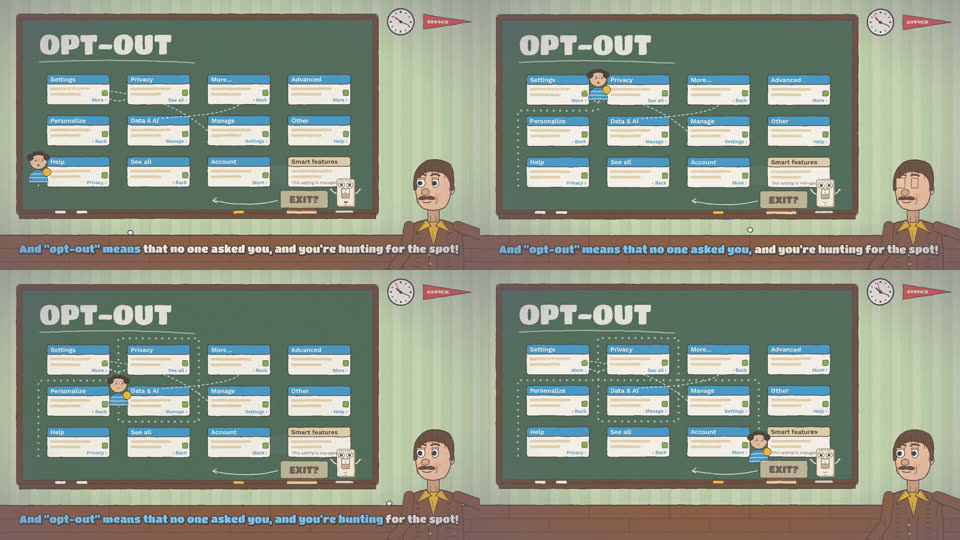
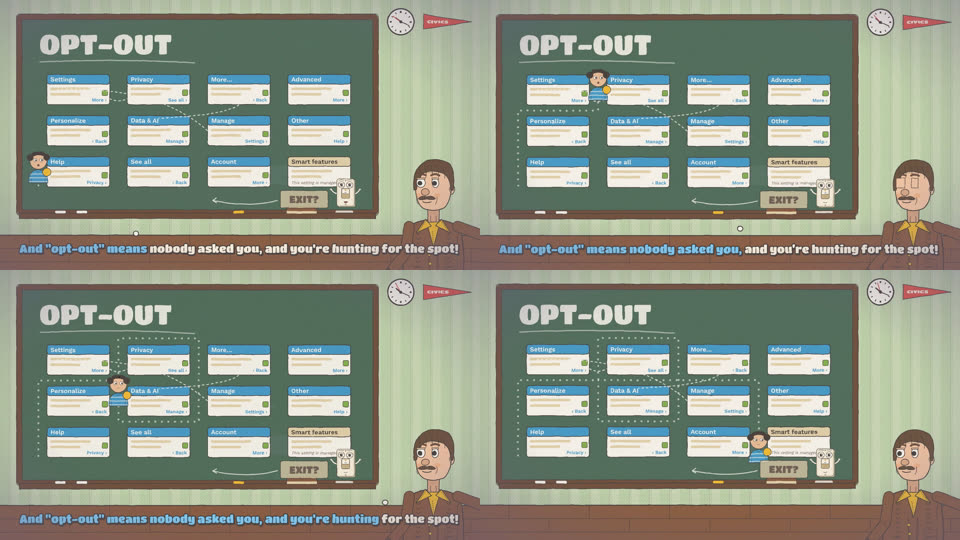
V05 as Switch sang it: re-aligned, lip sync, captions and S20 re-rendered
Claude-Session: https://claude.ai/code/session_01U1tVYjDQe516Mp7MHbmFPv

Changed region(s): [[0.5312, 0.4148, 0.9688, 0.4741], [0.0312, 0.9481, 0.4688, 0.9778], [0.0312, 0.4444, 0.4688, 0.4741]]

diff --git a/timing/map.md b/timing/map.md
@@ -28,7 +28,7 @@ Take = his comped line(s) in the master. Room = Narrator's word before → Narra
 | V02 | Yes, but can I please read the page myself? | 26.74–29.82 | 26.52–30.05 | 3.53 |
 | V03 | I've only got two sides, it isn't much to learn: / You push me down for off... ...so how'd I just return? | 34.16–37.25, 37.72–40.84 | 33.58–41.50 | 7.92 |
 | V04 | Default on, on, on, on, on, on, on... | 55.25–58.90 | 55.03–62.51 | 7.48 |
-| V05 | And "opt-out" means that no one asked you, and you're hunting for the spot! | 70.26–75.96 | 68.57–77.04 | 8.47 |
+| V05 | And "opt-out" means nobody asked you, and you're hunting for the spot! | 70.26–75.96 | 68.57–77.04 | 8.47 |
 | V06 | There's always a test. | 89.14–90.46 | 87.87–91.43 | 3.56 |
 | V07 | And what did the company say? | 99.02–100.42 | 98.46–100.71 | 2.25 |
 | V08 | Can I delete it? | 113.12–114.16 | 112.63–114.40 | 1.77 |
@@ -86,7 +86,7 @@ Take = his comped line(s) in the master. Room = Narrator's word before → Narra
 | S17 | Chorus 1 | "Default on!" / V04 "(On, on, on…)" | 55.25 | 1685 | L14a | cue words |
 | S18 | Chorus 1 | Flute and scat fill | 58.90 | 1794 | L14a | after Switch's V04 tag |
 | S19 | Lesson | "Now, 'opt-in' means somebody asks you…" | 62.51 | 1903 | L15 | cue words |
-| S20 | Lesson | V05 "And 'opt-out' means that no one asked you…" | 70.26 | 2135 | L16 | cue words |
+| S20 | Lesson | V05 "And 'opt-out' means nobody asked you…" | 70.26 | 2135 | L16 | cue words |
 | S21 | Lesson | "And 'default' is the setting that they picked…" | 77.04 | 2339 | L17 | cue words |
 | S22 | Lesson | "…they'll say you picked the same." | 82.56 | 2504 | L18 | cue words |
 | S23 | Lesson | "Got that? Opt-in, opt-out, default. There'll be a test." | 84.18 | 2553 | L19 | cue words |
@@ -158,7 +158,7 @@ Take = his comped line(s) in the master. Room = Narrator's word before → Narra
 | L14a | switch | Chorus 1 | 55.25 | 58.90 | Default on, on, on, on, on, on, on... |
 | L14 | narrator | Chorus 1 | 55.32 | 56.03 | Default on! |
 | L15 | narrator | Lesson | 62.51 | 68.57 | Now, "opt-in" means somebody asks you, and you say, "Well, sure, why not." |
-| L16 | switch | Lesson | 70.26 | 75.96 | And "opt-out" means that no one asked you, and you're hunting for the spot! |
+| L16 | switch | Lesson | 70.26 | 75.96 | And "opt-out" means nobody asked you, and you're hunting for the spot! |
 | L17 | narrator | Lesson | 77.04 | 80.45 | And "default" is the setting that they picked before you came, |
 | L18 | narrator | Lesson | 81.08 | 84.01 | And if you never touch it, friend, they'll say you picked the same. |
 | L19 | narrator | Lesson | 84.18 | 87.87 | Got that? Opt-in, opt-out, default. There'll be a test. |

diff --git a/docs/brief.md b/docs/brief.md
@@ -40,7 +40,7 @@
 | V02 | Verse 1 | "Yes, but can I please read the page myself?" | Sung or talk-sung, curious |
 | V03 | Pre-chorus 1 | "I've only got two sides, it isn't much to learn: / You push me down for off… …so how'd I just return?" | Slow and bluesy; leave the gap for the click |
 | V04 | Chorus 1 tag | "(On, on, on…)" | Sung, getting quieter |
-| V05 | Lesson | "And 'opt-out' means that no one asked you, and you're hunting for the spot!" | Sung, proud of knowing the answer |
+| V05 | Lesson | "And 'opt-out' means nobody asked you, and you're hunting for the spot!" (as he sang it; written "…means that no one asked you…") | Sung, proud of knowing the answer |
 | V06 | Lesson | "There's always a test." | Spoken, sighing |
 | V07 | Verse 2 | "And what did the company say?" (as he spoke it; written "And what's the company say?") | Spoken |
 | V08 | Verse 2 | "Can I delete it?" | Spoken, hopeful |
@@ -138,7 +138,7 @@
 | ID | Cue | Picture | Source |
 | --- | --- | --- | --- |
 | S19 | "Now, 'opt-in' means somebody asks you…" | Chalkboard: "OPT-IN." A cartoon kid is offered a cookie and nods | A |
-| S20 | V05 "And 'opt-out' means that no one asked you…" | "OPT-OUT." The kid already has a cookie stuck to his hand and wanders a maze of menus looking for the exit | A |
+| S20 | V05 "And 'opt-out' means nobody asked you…" | "OPT-OUT." The kid already has a cookie stuck to his hand and wanders a maze of menus looking for the exit | A |
 | S21 | "And 'default' is the setting that they picked…" | "DEFAULT." The kid sits down to a plate already piled with broccoli | A |
 | S22 | "…they'll say you picked the same." | A rubber stamp slams "YOU CHOSE THIS" onto the plate | A |
 | S23 | "Got that? Opt-in, opt-out, default. There'll be a test." | The Narrator taps the three words; a stack of test papers thuds onto the desk | A, E |

diff --git a/log/renders.md b/log/renders.md
@@ -144,3 +144,9 @@ Every render: timestamp, shot ID, composition, props, commit hash, output, conta
 - **Compositions:** `Sec02-Verse1`, `Sec03-Prechorus1`, `Sec04-Chorus1`, `Sec05-Lesson`, `Sec07-Prechorus2andChorus2`, `Sec11-Outroandreveal` from ce0a3dd (the citation on S05–S08; Switch's sung lines in bold karaoke); the other sections as before. `scripts/assemble.sh`; the sending copy at CRF 29; `Vertical` → `deliverables/vertical.mp4`.
 - **Checks:** 11,128 frames; sync −0.0001 s / 0.0000 s / 0.0000 s at 30 s, 150 s and 245 s. In the render: V02 above the citation in S07, the pre-chorus on the night set, both "on, on, on" tags on the wallpaper, V18 in S61; the first short carries the karaoke in its picture.
 - **Outputs:** the six sections, `renders/m4/m4_full.mp4`, `renders/m4/review/m4_full_review_720p.mp4` and `_send.mp4` (26.1 MB), `deliverables/vertical.mp4` (10.8 MB), contact sheets in `review/`. Superseded: `archive/renders/m5_s65_real_2026-11-10/` and `archive/renders/m5_karaoke_v1_partial_2026-11-10/`.
+
+## 2026-11-10T01:31 — Sec05 with V05 as sung; the full cut
+
+- **Compositions:** `Sec05-Lesson` from the working tree of this commit (L16's words, mouths and karaoke); `scripts/assemble.sh`; the sending copy at CRF 29.
+- **Checks:** 11,128 frames; sync −0.0001 s / 0.0000 s / 0.0000 s at 30 s, 150 s and 245 s; S20's karaoke reads "And "opt-out" means nobody asked you, and you're hunting for the spot!".
+- **Outputs:** `renders/m4/sec05_lesson.mp4`, `renders/m4/m4_full.mp4`, the review copies, contact sheets. Superseded: `archive/renders/m5_karaoke_2026-11-10/`.

diff --git a/log/production_log.md b/log/production_log.md
@@ -439,3 +439,7 @@ Append-only. One entry per action: timestamp, step (shot ID where relevant), wha
 - **The song doc's mirror:** `docs/song_doc_full.md` re-mirrored at rev 45 (was rev 38). `scripts/doc_to_md.py` dropped blockquotes, so every earlier mirror had lost card G's draft; it now writes them.
 - **Checked:** the child's name appears in tracked files only in the two guardians' consent statements in `log/human_interventions.md`, as the project's rule allows; it will be public with the repo.
 - **2026-11-10:** pushed `main` to github.com/Derivative-Work/default-on (84c00d4..8e0eb75, 39 commits; the repo is still private), at the human's word ("push it").
+
+## 2026-11-10 — V05 as he sang it
+
+- `lyrics/switch_comp.txt` L16 now "And "opt-out" means nobody asked you, and you're hunting for the spot!" (the human); re-aligned (`scripts/align_words.py`: only L16 changed, every word placed without a low score); `timing/map.json` regenerated (no shot moved); `timing/visemes.json` re-run (only L16 changed); `captions/default_on.en.srt` regenerated. Brief V05 and S20 rows (doc rev 96, `docs/brief.md`).

diff --git a/log/human_interventions.md b/log/human_interventions.md
@@ -275,3 +275,9 @@ Every human action: timestamp, what, why, and which rule allows it. The brief al
 
 - **Verbatim:** "push it" (after the repository files). `main` pushed, 84c00d4..8e0eb75. The repository stays private until the human makes it public before release.
 - **Rule:** H2.
+
+## 2026-11-10 — V05 as spoken — H3
+
+- **Verbatim:** "his actual spoken line is "and opt-out means nobody asked you...""
+- **Decision:** V05 (L16) is "And "opt-out" means nobody asked you, and you're hunting for the spot!" (the rest of the line assumed unchanged); the transcript, alignment, lip sync, captions, brief rows and the S20 render follow.
+- **Rule:** H3 (Switch's lines as recorded).
